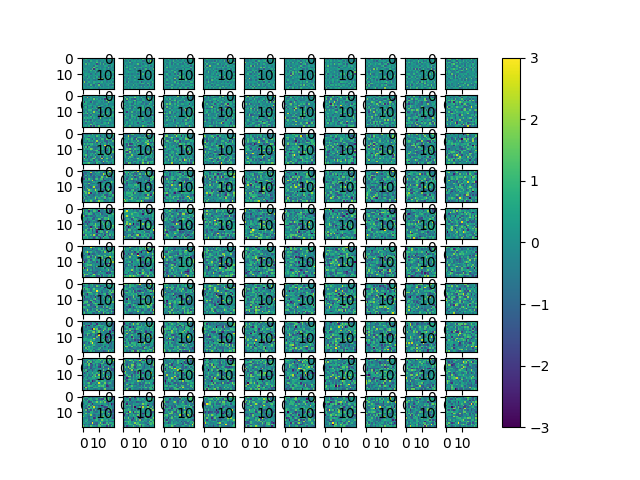
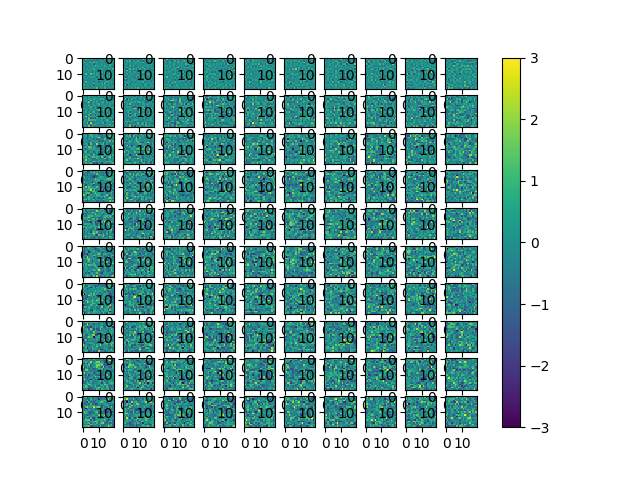
Diag text + gray map

Changed region(s): [[0.125, 0.125, 0.75, 0.9062]]

diff --git a/model.py b/model.py
@@ -72,6 +72,7 @@ class MapModel:
         return ws, bs
 
     def export_diagnostics(self,sess,directory):
+        print("[*] Exporting Weights...")
         ws, bs = self.export_weights(sess)
         if not os.path.isdir(directory):
             os.mkdir(directory)
@@ -81,22 +82,27 @@ class MapModel:
         for i in range(ws[0].shape[1]):
             v = ws[0][:,i].reshape((sqrt_last_size,sqrt_last_size))
             ws_list.append((numpy.sum(numpy.abs(v)),v))
-        ws_major = [w[1] for w in sorted(ws_list,key=lambda x:x[0])]
+        ws_major = [w[1] for w in reversed(sorted(ws_list,key=lambda x:x[0]))]
 
+        print("\tGenerating figure...")
         fig, axes = pyplot.subplots(10,10)
         for i,ax in enumerate(axes.flatten()):
             im = ax.imshow(ws_major[i],vmin=-3,vmax=3)
         pyplot.colorbar(im,ax=axes.ravel().tolist())
+        print("\tSaving...")
         pyplot.savefig(os.path.join(directory,'topW.png'))
         pyplot.clf()
+        print("[+] Done!")
 
-    def make_map(self,sess,init,shape=(100,100)):
+
+    def make_map(self,sess,init,filename='outmap.png',shape=(100,100)):
         '''
         Make a map
         :param init: initial seed for map
         :param shape: how big of a map
         :return: A map!
         '''
+        print("[*] Making map...")
         map = numpy.zeros(shape)
         init[init<0] = 0
         init[init>1] = 1
@@ -118,8 +124,12 @@ class MapModel:
                     ys[ys > 1] = 1
                     map[0:self.cube_shape, col_pos+col_help+self.cube_shape] = numpy.flip(ys,0)
         # Now do 5 y changes
-        pyplot.imshow(map)
-        pyplot.show()
+        print("\tSaving figure...")
+        pyplot.imshow(map,cmap='gray')
+        pyplot.savefig(filename)
+        pyplot.clf()
+        print("[+] Done!")
+
 
 
 
